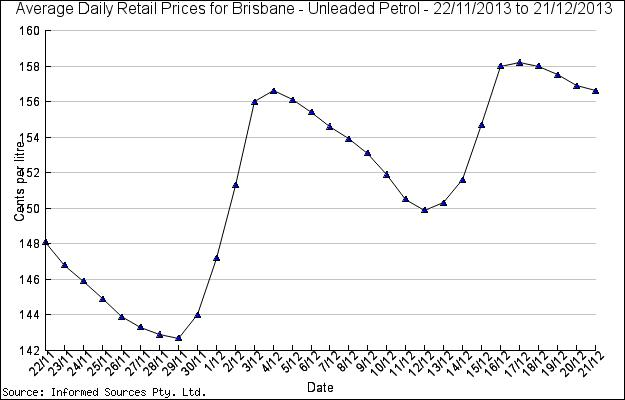
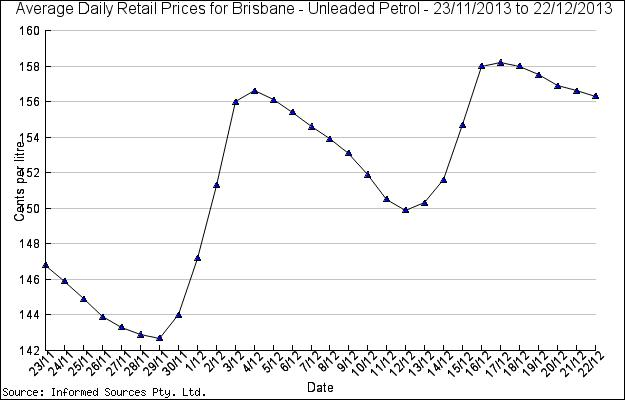
add petrol support for web and wechat mobile

diff --git a/templates/petrol.html b/templates/petrol.html
@@ -124,22 +124,22 @@
         <tbody>
             <tr>
                 <td>
-                    19 December&nbsp;2013
+                    {{ cheapest.weekending }}
                 </td>
                 <td>
-                    Friday
+                    {{ cheapest.sydney }}
                 </td>
                 <td>
-                    Friday
+                    {{ cheapest.melbourne }}
                 </td>
                 <td>
-                    Friday
+                    {{ cheapest.brisbane }}
                 </td>
                 <td>
-                    Friday
+                    {{ cheapest.adelaide }}
                 </td>
                 <td>
-                    Wednesday
+                    {{ cheapest.perth }}
                 </td>
             </tr>
         </tbody>
@@ -153,10 +153,10 @@
     <p>
         下图显示过去30天内，悉尼无铅汽油每天的价格变化情况.
     </p>
-    <p>
+    <div>
         <img alt="Average daily unleaded petrol prices in Sydney over the past 30 days"
-        src="/static/public/img/brisbane.jpg" class="max720">
-    </p>
+        src="/static/public/img/sydney.jpg" class="imgflex"/></div>
+    
     <h2>
         <a name="petrol-prices-in-melbourne" id="petrol-prices-in-melbourne"
         href="#" rel="bookmark" title="Petrol prices in Melbourne">
@@ -168,7 +168,7 @@
     </p>
     <p>
         <img alt="Average daily unleaded petrol prices in Melbourne over the past 30 days"
-        src="/static/public/img/brisbane.jpg" class="max720">
+        src="/static/public/img/melbourne.jpg" class="imgflex">
     </p>
     <h2>
         <a name="petrol-prices-in-brisbane" id="petrol-prices-in-brisbane" 
@@ -181,7 +181,7 @@
     </p>
     <p>
         <img alt="Average daily unleaded petrol prices in Brisbane over the past 30 days"
-        src="/static/public/img/brisbane.jpg" class="max720">
+        src="/static/public/img/brisbane.jpg" class="imgflex">
     </p>
     <h2 >
         <a name="petrol-prices-in-adelaide" id="petrol-prices-in-adelaide" 
@@ -194,7 +194,7 @@
     </p>
     <p>
         <img alt="Average daily unleaded petrol prices in Adelaide over the past 30 days"
-        src="/static/public/img/brisbane.jpg" class="max720">
+        src="/static/public/img/adelaide.jpg" class="imgflex">
     </p>
     <h2>
         <a name="petrol-prices-in-perth" id="petrol-prices-in-perth"
@@ -210,7 +210,7 @@
     </p>
     <p>
         <img alt="Average daily unleaded petrol prices in Perth over the past 30 days"
-        src="/static/public/img/brisbane.jpg" class="max720">
+        src="/static/public/img/perth.jpg" class="imgflex">
     </p>
 </div>
   {% endblock %}

diff --git a/templates/news.html b/templates/news.html
@@ -13,6 +13,9 @@
                                 <li {% if view == "currency" %}class="on"{% endif %}>
                                     <a href="/cur/all">澳币汇率</a>
                                 </li>
+                                <li {% if view == "petrol" %}class="on"{% endif %}>
+                                                        <a href="/petrol">澳洲油价</a>
+                                </li>
                                 <li>
                                     <a style="color:#ff6600;" href="/submit">>投稿</a>
                                 </li>

diff --git a/templates/currency_all.html b/templates/currency_all.html
@@ -13,6 +13,9 @@
                     <li {% if view == "currency" %}class="on"{% endif %}>
                         <a href="/cur/all">澳币汇率</a>
                     </li>
+                    <li {% if view == "petrol" %}class="on"{% endif %}>
+                        <a href="/petrol">澳洲油价</a>
+                    </li>
                     <li>
                         <a style="color:#ff6600;" href="/submit">>投稿</a>
                     </li>

diff --git a/static/css/au.css b/static/css/au.css
@@ -148,8 +148,7 @@ a:hover {
 }
 
 .article {
-    padding-left: 5px;
-    padding-bottom: 10px;
+    padding: 5px 10px 10px 10px;
 }
 
 .nav {
@@ -468,6 +467,7 @@ textarea {
     color:#ff6600;
 }
 
-.max720 {
+.imgflex {
  max-width: 720px;
+ width: 90%;
 }

diff --git a/cron.py b/cron.py
@@ -1,8 +1,9 @@
-from database import ServiceDB
+#!/bin/env python
+# -*- coding: utf-8 -*-
 
-import urllib2
+import urllib2, lxml.html, os
 from datetime import datetime
-from utils import timeformat, timeadjust
+from utils import timeadjust
 import time
 import sys
 
@@ -27,19 +28,65 @@ def getAUDCNY():
     return (name, t, value)
 
 
+def petrolCapture(imgstorepath):
+    BASEURL = 'http://www.accc.gov.au'
+    IMGSTORE = imgstorepath
+    
+    #fetch the source data of petrol price from accc australia
+    accchttp = urllib2.urlopen('http://www.accc.gov.au/consumers/petrol-diesel-and-lpg/recent-city-petrol-prices')
+    data = accchttp.read()
+    accchttp.close()
+    doc = lxml.html.document_fromstring(data)
+    
+    
+    #get the data of cheapest in last week
+    t1 = doc.xpath('/html/body/div/div/div[3]/div/div[2]/div/div/div/div/div/div/div/div/div/div/table/tbody/tr/td/text()')
+    cheapest = [item for item in t1 if item != '\n']  
+    db.savePetrolCheapest(cheapest)
+    
+    #get the charts of major cities
+    xpaths = {'sydney':'/html/body/div/div/div[3]/div/div[2]/div/div/div/div/div/div/div/div/div/div/p[10]/img/@src',
+              'melbourne': '/html/body/div/div/div[3]/div/div[2]/div/div/div/div/div/div/div/div/div/div/p[13]/img/@src',
+              'brisbane':'/html/body/div/div/div[3]/div/div[2]/div/div/div/div/div/div/div/div/div/div/p[16]/img/@src',
+              'adelaide':'/html/body/div/div/div[3]/div/div[2]/div/div/div/div/div/div/div/div/div/div/p[19]/img/@src',
+              'perth':'/html/body/div/div/div[3]/div/div[2]/div/div/div/div/div/div/div/div/div/div/p[22]/img/@src'
+    }
+    
+    for city in xpaths:
+        img = doc.xpath(xpaths[city])
+        img1url = "%s%s" % ( BASEURL, img[0])
+        imghttp = urllib2.urlopen(img1url)
+        imgdata = imghttp.read()
+        imghttp.close()
+        imgstorepath = os.path.join(IMGSTORE, '%s.jpg'%city)
+        fileimg = open(imgstorepath, "wb")
+        fileimg.write(imgdata)
+        fileimg.close()
+
+
 if __name__ == '__main__':
     option = '--minutes'
-    if len(sys.argv) > 1 and sys.argv[1] == '--hours':
-        option = '--hours'
-    money = getAUDCNY()
+    if len(sys.argv) > 1:
+        if sys.argv[1] == '--hours':
+            option = '--hours'
+        elif sys.argv[1] == '--days':
+            option = '--days'
+    
     #db = ServiceDB.instance()
     from index import db
     if option == '--minutes':
+        money = getAUDCNY()
         db.saveMoneyMinute(money)
         print "saved minutes!"
     elif option == '--hours':
+        money = getAUDCNY()
         db.saveMoneyHour(money)
         print "saved hours!"
+    elif option == '--days':
+        filepath = os.path.realpath(__file__)
+        dirname = os.path.dirname(filepath)
+        imgpath = os.path.join(dirname, 'static/public/img/')
+        petrolCapture(imgpath)
     db.session.close()
     
    

diff --git a/database.py b/database.py
@@ -93,6 +93,31 @@ class ServiceDB():
     def instance(self):
         pass
      
+    def queryCheapestPetrol(self):
+        try:
+            query = self.session.query(Petrol_Cheapest).order_by(Petrol_Cheapest.timestamp.desc()).first()
+            return query
+        except:
+            self.session.rollback()
+        
+    def savePetrolCheapest(self, tuple_in):
+        try:   
+            petrolcheap = Petrol_Cheapest(weekending=tuple_in[0], 
+                                          sydney=tuple_in[1],
+                                          melbourne=tuple_in[2],
+                                          brisbane=tuple_in[3],
+                                          adelaide=tuple_in[4],
+                                          perth=tuple_in[5],
+                                          timestamp = time.time())
+            self.session.add(petrolcheap)
+            self.session.commit()
+        except:
+            self.session.rollback()
+        finally:
+            self.session.close()
+    
+        
+        
     def saveMoneyMinute(self, tuple_in):
         try:
             moneyminutes = Money_Minute(name=tuple_in[0], timestamp=tuple_in[1], value=tuple_in[2])
@@ -434,6 +459,21 @@ class ServiceDB():
         except:
             self.session.rollback()
 
+class Petrol_Cheapest(_Base):
+    __tablename__ = 'petrol_cheapest'
+    id = Column(Integer, primary_key=True)
+    weekending = Column(String(50))
+    timestamp = Column(DECIMAL, nullable=False)
+    sydney = Column(String(20))
+    melbourne = Column(String(20))
+    brisbane = Column(String(20))
+    adelaide = Column(String(20))
+    perth = Column(String(20))
+        
+    def __repr__(self):
+        print "<Petrol_Cheapest (%s, %s)>" % (self.id, self.timestamp)
+     
+     
 class Money_Minute(_Base):
     __tablename__ = 'money_minutes'
     id = Column(Integer, primary_key=True)

diff --git a/weixin.py b/weixin.py
@@ -108,11 +108,32 @@ def currency_info_AUDCNY_Pic(msg):
 社区里还有很多关于澳洲的精彩文章，都很值得收藏！欢迎小伙伴们投稿:)"""
 
         cur_obj.imgthumbnail = "http://42bang.com/static/public/img/cur1.thumbnail.jpg"
+        cur_obj.url = 'http://42bang.com/cur/all'
         curs = list()
         curs.append(cur_obj)
         return response_news_msg(msg, curs)
     else:
         return response_text_msg(msg, HELP_INFO)
+    
+    
+
+def petrol(msg):
+    class Petrol(object):
+        pass
+    p_obj = Petrol()
+    p_obj.title = u"最新的澳洲油价变化周期"
+    p_obj.shorten_content = u"""点击查看最近油价的最低点和各大城市的最新油价周期情况。^_^. 
+也可以直接登录澳洲一刻小伙伴们的社区
+[ http://42bang.com ] 随时查看哦！
+社区里还有很多关于澳洲的精彩文章，都很值得收藏！欢迎小伙伴们投稿:)"""
+
+    p_obj.imgthumbnail = "http://42bang.com/static/public/img/cur1.thumbnail.jpg"
+    p_obj.url = 'http://42bang.com/petrol'
+    pets = list()
+    pets.append(p_obj)
+    return response_news_msg(msg, pets)
+
+    
     
 NEWS_MSG_HEADER_TPL = \
 u"""
@@ -171,8 +192,8 @@ def make_single_item(message):
     title = u'%s' % title_r
     description = '%s' % description_r
     picUrl = message.imgthumbnail
-    url = 'http://42bang.com/cur/all'
-    item = NEWS_MSG_ITEM_TPL % (title, description, picUrl, url)
+    
+    item = NEWS_MSG_ITEM_TPL % (title, description, picUrl, message.url)
     #item = NEWS_MSG_ITEM_TPL
     return item
 

diff --git a/index.py b/index.py
@@ -29,10 +29,11 @@ def startCron():
     job1.every().minute()
     job2 = cron.new(command='%s %s/cron.py --hours' % (PYTHON_VIRTUAL, dirname))
     job2.every().hour()
+    job3 = cron.new(command='%s %s/cron.py --days' % (PYTHON_VIRTUAL, dirname))
+    job3.hour.on(3)
     cron.write()
     print 'cron job started as the following'
     print cron.render()
-
 
 
 @app.route("/cur/all", methods = ['GET', 'POST'])
@@ -45,7 +46,8 @@ def currrency():
 
 @app.route("/petrol")
 def petrol():
-    return render_template("petrol.html", view="petrol")
+    query = db.queryCheapestPetrol()
+    return render_template("petrol.html", view="petrol", cheapest = query)
     
     
 @app.route("/vote")
